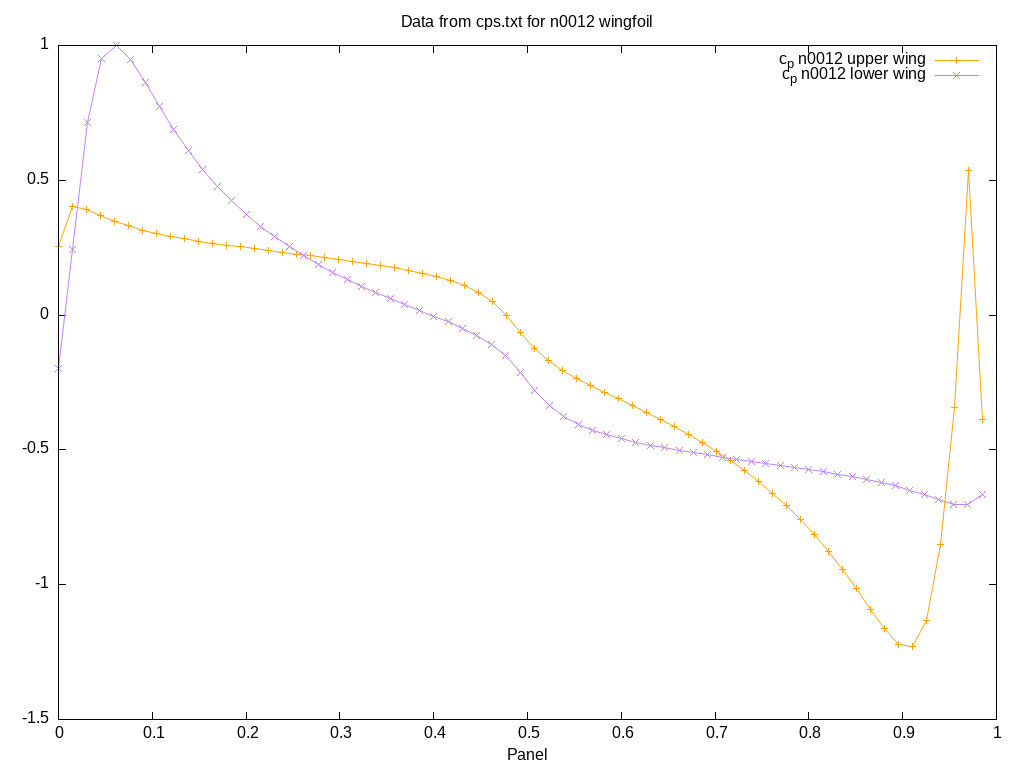
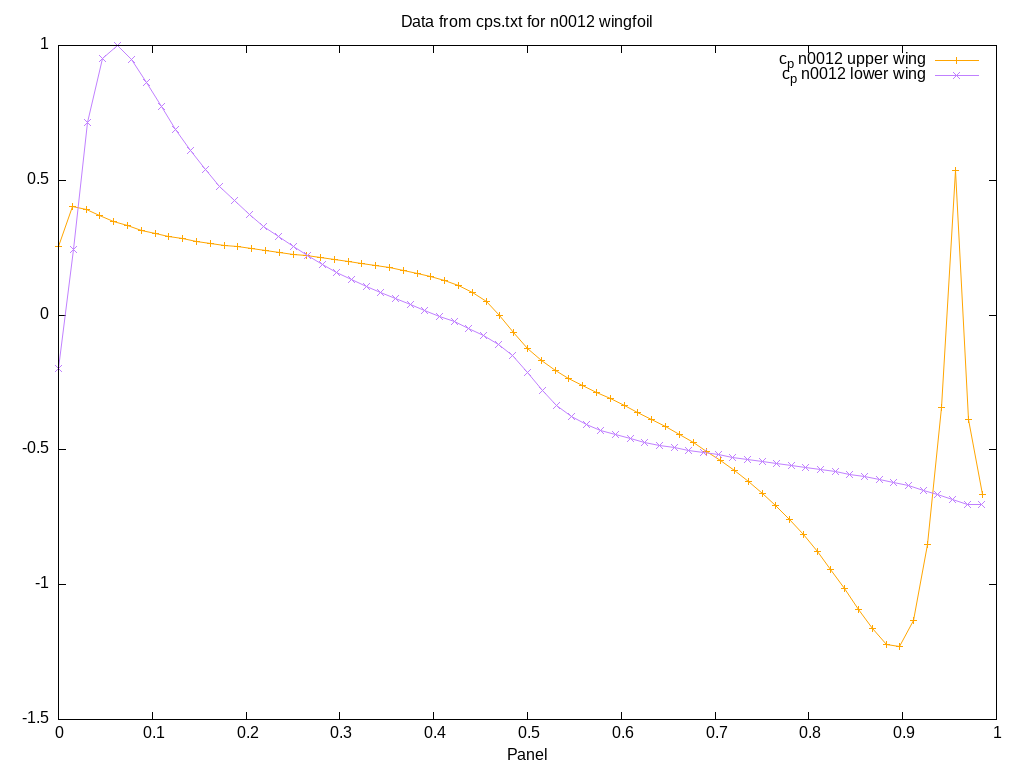
changed while condition to <= 0 and now the cp values are more close at the end

diff --git a/getQGammaProfile.m b/getQGammaProfile.m
@@ -70,11 +70,11 @@ function [] = getQGammaProfile(filenameProfile)
     sizeX=size(x);
 
     if(x(3,2) > 0)
-      while(x(separator, 2) > 0)
+      while(x(separator, 2) >= 0)
          separator = separator + 1;
       end
     else
-         while(x(separator, 2) < 0)
+         while(x(separator, 2) <= 0)
          separator = separator + 1;
          end
     end
